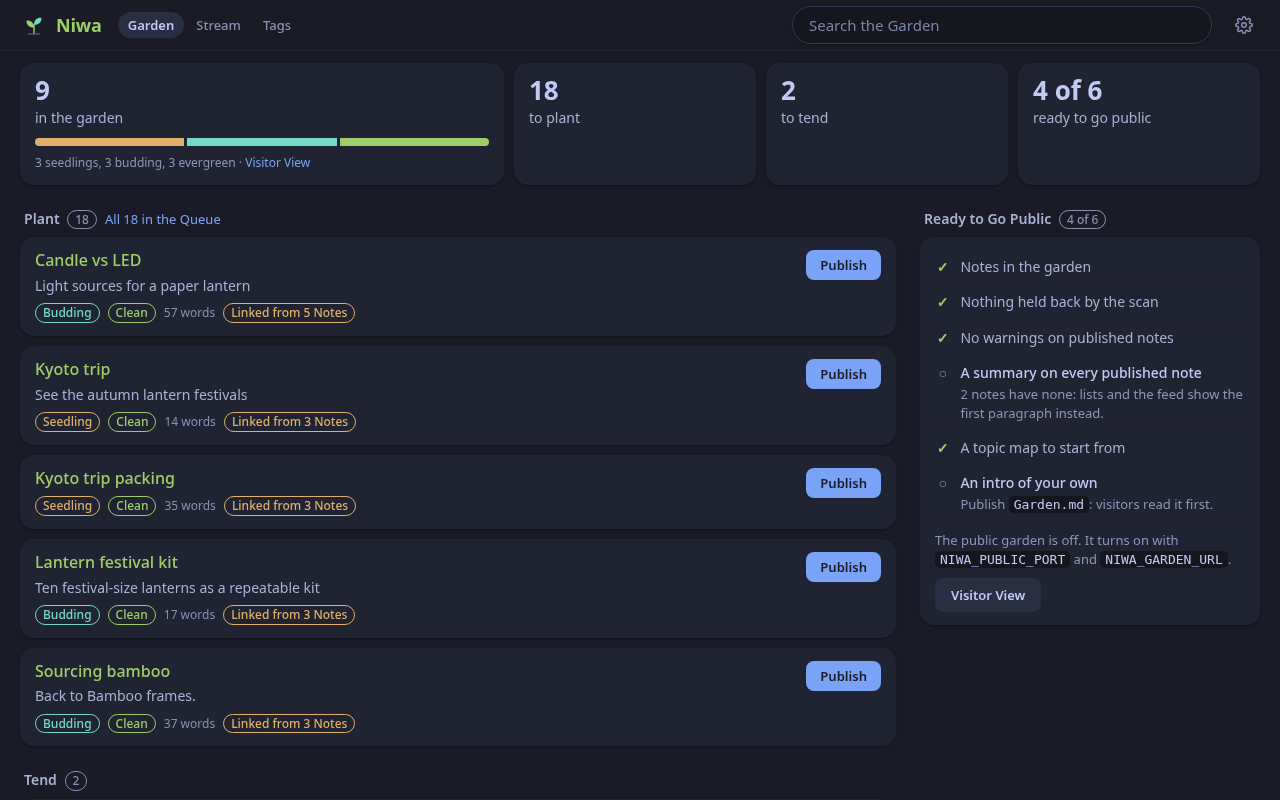
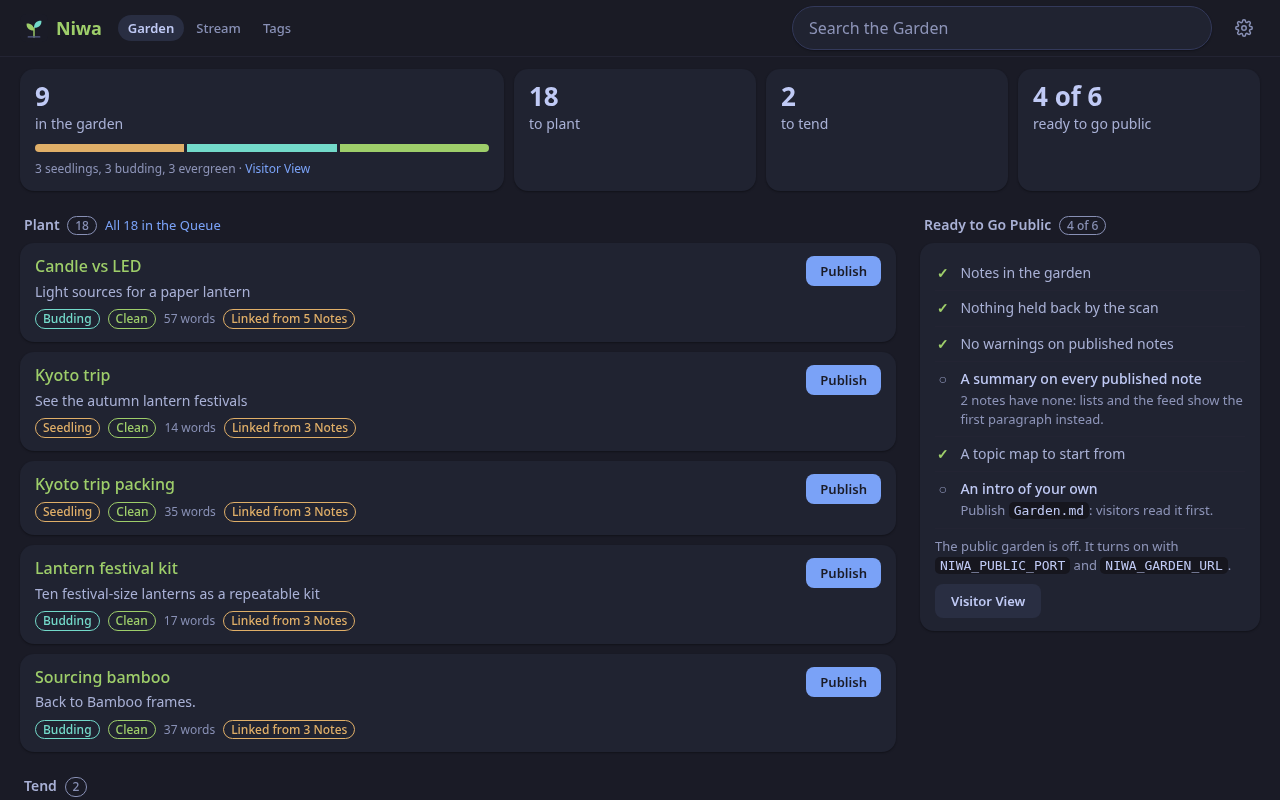
niwa 0.18.0: vaultkit 0.35.1: annai's search field; the first phone tab is Niwa itself, on the public garden too

diff --git a/app/vaultkit/ui/machiya.css b/app/vaultkit/ui/machiya.css
@@ -428,7 +428,7 @@ body.room-kura    { --room: var(--orange);  --room2: var(--slate);  --room-panel
    its <accent>-panel shade (vaultkit/palettes.py: the same hue, lightness moved only where it falls short), so links,
    chips and room colours in a panel need nothing of their own. A room's own colour defined on <body> from an accent
    keeps the page's shade; set it on the element instead (docs/ui.md). */
-.card, .settings .group, .signin .group, .rooms .menu, .update-toast, .nbody pre, .tinted {
+.card, .settings .group, .signin .group, .rooms .menu, .tabsheet .menu, .update-toast, .nbody pre, .tinted {
   --blue: var(--blue-panel); --orange: var(--orange-panel); --red: var(--red-panel); --yellow: var(--yellow-panel);
   --green: var(--green-panel); --teal: var(--teal-panel); --magenta: var(--magenta-panel); --cyan: var(--cyan-panel);
   --slate: var(--slate-panel); --house: var(--blue-panel); --room: var(--room-panel); --room2: var(--room2-panel); }
@@ -488,21 +488,21 @@ header.top {
   border-radius: 8px; color: var(--muted); }
 .rooms > summary::-webkit-details-marker { display: none; }
 .rooms > summary:hover, .rooms[open] > summary { background: var(--hl); color: var(--fg); }
-.rooms .menu { position: absolute; right: 0; top: calc(100% + 6px); min-width: 230px; padding: var(--sp-2);
+.rooms .menu, .tabsheet .menu { position: absolute; right: 0; top: calc(100% + 6px); min-width: 230px; padding: var(--sp-2);
   background: var(--dark); border: 1px solid var(--line2); border-radius: var(--r-m); box-shadow: var(--shadow-2); z-index: 20; }
-.rooms .menu a, .rooms .menu b { display: flex; align-items: center; gap: 10px; padding: 7px var(--sp-2); border-radius: 8px;
+.rooms .menu a, .tabsheet .menu a, .rooms .menu b, .tabsheet .menu b { display: flex; align-items: center; gap: 10px; padding: 7px var(--sp-2); border-radius: 8px;
   color: var(--menu-fg, var(--fg)); font-size: var(--fs-s); font-weight: 500; }
-.rooms .menu a:hover { background: var(--hl); text-decoration: none; }
-.rooms .menu b { background: var(--hl); }
-.rooms .menu small { color: var(--menu-muted, var(--muted)); font-weight: 400; margin-left: auto; }
-.rooms .menu hr { border: 0; border-top: 1px solid var(--line); margin: 6px 4px; }
-.rooms .menu .seal { width: 22px; height: 22px; font-size: 13px; }
-.rooms .menu .neighbour { display: inline-grid; place-items: center; width: 22px; height: 22px; color: var(--muted); }
+.rooms .menu a:hover, .tabsheet .menu a:hover { background: var(--hl); text-decoration: none; }
+.rooms .menu b, .tabsheet .menu b { background: var(--hl); }
+.rooms .menu small, .tabsheet .menu small { color: var(--menu-muted, var(--muted)); font-weight: 400; margin-left: auto; }
+.rooms .menu hr, .tabsheet .menu hr { border: 0; border-top: 1px solid var(--line); margin: 6px 4px; }
+.rooms .menu .seal, .tabsheet .menu .seal { width: 22px; height: 22px; font-size: 13px; }
+.rooms .menu .neighbour, .tabsheet .menu .neighbour { display: inline-grid; place-items: center; width: 22px; height: 22px; color: var(--muted); }
 /* A room's own icon (its home-screen icon) instead of the kanji square: the header mark and the Rooms menu. */
 .seal.icon { background: center / cover no-repeat transparent; border-radius: 0; color: transparent; overflow: hidden; }
 .brand .seal.icon { width: 28px; height: 28px; }
-.rooms .menu .seal.icon { width: 24px; height: 24px; }
-.rooms .menu .seal.icon.neighbour-icon { background-size: 20px 20px; background-position: center; }   /* Hister's and SearXNG's own logos: no tile, a little smaller */
+.rooms .menu .seal.icon, .tabsheet .menu .seal.icon { width: 24px; height: 24px; }
+.rooms .menu .seal.icon.neighbour-icon, .tabsheet .menu .seal.icon.neighbour-icon { background-size: 20px 20px; background-position: center; }   /* Hister's and SearXNG's own logos: no tile, a little smaller */
 /* ROOM ICONS (generated by icons/build-css.py from icons/*.svg; don't edit by hand) */
[2 lines of base64/hex data omitted]
@@ -533,8 +533,6 @@ header.top {
   .tools > * { order: 1; }
   header.top > .searchrow { order: 2; flex: 0 .2 auto; width: clamp(180px, 75vw - 540px, 420px); min-width: 150px;
     margin: 0; padding: 6px 0; }
-  /* the field's text is 15px (v0.31.4, owner 2026-10-11; v0.31.3's 13px, the tabs' size, read too small); phones keep 16px */
-  header.top > .searchrow form.search.searchbar input { font-size: 15px; }
   .tools > :is(.rooms, .who, .gear) { order: 3; }
   /* the tools' own 10px gap, inside the header's 16px one */
   .tools > :not(.rooms, .who, .gear) + :not(.rooms, .who, .gear), .tools > :is(.rooms, .who, .gear) + :is(.who, .gear) {
@@ -561,11 +559,15 @@ body.theme-day .tabbar { --tab-bg: var(--hl); --tab-on: var(--dark); }
     background: color-mix(in srgb, var(--tab-bg) 70%, transparent);
     backdrop-filter: blur(20px) saturate(180%); -webkit-backdrop-filter: blur(20px) saturate(180%);
     box-shadow: 0 8px 24px rgb(0 0 0 / 0.25); }
-  .tabbar > a, .tabbar > details > summary { flex: 1 1 0; min-width: 0; display: flex; flex-direction: column; align-items: center;
+  .tabbar > a, .tabbar > button, .tabbar > details > summary { flex: 1 1 0; min-width: 0; display: flex; flex-direction: column; align-items: center;
     gap: 2px; padding: 6px 2px; border-radius: 999px; color: var(--fg); font-size: 11px; font-weight: 500; white-space: nowrap;
     list-style: none; cursor: pointer; }
-  .tabbar > a > span, .tabbar > details > summary > span { max-width: 100%; overflow: hidden; text-overflow: ellipsis; }
+  .tabbar > button { font-family: inherit; line-height: inherit; background: none; border: 0; margin: 0; }
+  .tabbar > a > span, .tabbar > button > span, .tabbar > details > summary > span { max-width: 100%; overflow: hidden; text-overflow: ellipsis; }
   .tabbar svg { width: 22px; height: 22px; }
+  /* the first tab is the app (v0.35, owner 2026-10-14): its icon, the size of the others' glyphs */
+  .tabbar .seal.icon { width: 22px; height: 22px; }
+  .tabbar > a > .seal.icon, .tabbar > a.here > .seal.icon { flex: none; max-width: none; color: transparent; }   /* the icon, never its kanji */
   .tabbar > details { flex: 1 1 0; min-width: 0; position: relative; display: flex; }
   .tabbar > details > summary::-webkit-details-marker { display: none; }
   /* the Rooms tab is also a .rooms: undo the header button's 32px box and hover fill */
@@ -581,7 +583,7 @@ body.theme-day .tabbar { --tab-bg: var(--hl); --tab-on: var(--dark); }
   .tabbar:has(> details[open]) > a:is(.here, [aria-current="page"]) { background: none; color: var(--fg); }
   .tabbar:has(> details[open]) > a:is(.here, [aria-current="page"]) > span { color: inherit; }
   .tabbar > a:hover { text-decoration: none; }
-  .tabbar .rooms .menu { top: auto; bottom: calc(100% + 14px); right: 0; }
+  .tabbar > details > .menu { top: auto; bottom: calc(100% + 14px); right: 0; }   /* Rooms, and a room's own sheet tab (v0.35) */
 }
 
 /* The installed app's header. v0.33.0 (owner, 2026-10-14, after comparing with an installed Shiori that still had it:
@@ -823,12 +825,14 @@ main form.search input { width: 100%; font-size: var(--fs-l); padding: 9px 12px;
 .searchrow { padding: 2px 0 10px; }
 form.search.searchbar { display: block; max-width: 720px; }
 form.search.searchbar .field { position: relative; }
-/* 38px tall at every width, Shiori Search's field as Safari draws it (v0.31.4, owner 2026-10-11; v0.31.3's 44.4px came from
-   Shiori's CSS, but Safari draws that one at 38): a fixed height, so no font or line-height can change it */
-form.search.searchbar input { width: 100%; max-width: none; height: 38px; padding: 0 44px 0 16px; border-radius: 999px;
-  border: 1px solid var(--line2); background: var(--dark); color: var(--menu-fg, var(--fg)); font: inherit; font-size: var(--fs-l);
+/* annai's field (v0.35, owner 2026-10-14: "the same search field style as annai", for one look across the apps): 44px
+   tall at every width, 16px text (which also keeps iOS from zooming on focus), on --card, a raised surface a little
+   lighter than the page, with --line2 and --shadow-1. A fixed height, so no font or line-height can change it. The text
+   and placeholder are the colours the palettes test on a card. (v0.31.4's was 38px on --dark.) */
+form.search.searchbar input { width: 100%; max-width: none; height: 44px; padding: 0 44px 0 16px; border-radius: 999px;
+  border: 1px solid var(--line2); background: var(--card); color: var(--menu-fg, var(--fg)); font: inherit; font-size: 16px;
   line-height: normal; box-shadow: var(--shadow-1); transition: none; }
-form.search.searchbar input::placeholder { color: var(--muted); opacity: .9; }
+form.search.searchbar input::placeholder { color: var(--menu-muted, var(--muted)); opacity: 1; }
 form.search.searchbar input:focus { outline: none; border-color: var(--room); }
 /* focused, one solid 2px ring on the field's edge, as Shiori Search's (v0.31.3, owner 2026-10-11; was the border plus a ring
    2px outside it) */

diff --git a/tests/test_niwa.py b/tests/test_niwa.py
@@ -2989,6 +2989,17 @@ class PublicGardenTest(unittest.TestCase):
         for path in ("/visit", "/queue"):
             self.assertEqual(self.get(path)[0], 404, path)
 
+    def test_the_first_phone_tab_is_niwa_itself_on_both_listeners(self):
+        """vaultkit 0.35: the tab bar's first tab is the app, its icon and name, to its home; public_tabbar does the same."""
+        mark = '<span class="seal icon" data-room="niwa"'
+        for who, body in (("owner", req("/stream")[1]), ("public", self.get("/stream")[2])):
+            tabbar = body[body.index('<nav class="tabbar"'):]
+            tabbar = tabbar[:tabbar.index("</nav>")]
+            self.assertEqual(re.findall(r"<span>([^<]*)</span></a>", tabbar)[:3], ["Niwa", "Stream", "Tags"], who)
+            self.assertTrue(re.search(r'<a href="/">%s' % re.escape(mark), tabbar), who)
+            self.assertIn('<a href="/stream" class="here" aria-current="page">', tabbar, who)
+        self.assertNotIn("Rooms", tabbar)                                             # the public garden has no Rooms tab
+
     def test_the_public_listener_logs_no_query(self):
         err = io.StringIO()
         with mock.patch.object(sys, "stderr", err):
@@ -3065,8 +3076,8 @@ class PublicGardenTest(unittest.TestCase):
         self.assertIn("width: clamp(180px, 75vw - 540px, 420px); min-width: 150px;", shared_css)     # the pill, v0.31.2
         self.assertIn("form.search.searchbar input:focus-visible { outline: 2px solid var(--room); outline-offset: -2px; }",
                       shared_css)                                                        # one ring on the edge, v0.31.3
-        self.assertIn("header.top > .searchrow form.search.searchbar input { font-size: 15px; }", shared_css)    # v0.31.4
-        self.assertIn("form.search.searchbar input { width: 100%; max-width: none; height: 38px;", shared_css)   # a fixed 38px
+        self.assertIn("form.search.searchbar input { width: 100%; max-width: none; height: 44px;", shared_css)   # annai's, v0.35
+        self.assertIn("background: var(--card); color: var(--menu-fg, var(--fg)); font: inherit; font-size: 16px;", shared_css)
         with open(os.path.join(os.path.dirname(__file__), "..", "app", "vaultkit", "ui", "machiya.js")) as f:
             self.assertIn('foot.style.marginTop = parseFloat(getComputedStyle(foot).marginTop) + gap + "px"', f.read())   # v0.31.3
         with open(os.path.join(os.path.dirname(__file__), "..", "app", "static", "niwa.css")) as f:

diff --git a/app/vaultkit/shell.py b/app/vaultkit/shell.py
@@ -351,12 +351,25 @@ def header(room, nav, current, links, subtitle="", tools="", settings=True, who=
                ('<div class="below">%s</div>' % below) if below else ""))
 
 
-def tabbar(tabs, current, room, links, icons=None, who=""):
-    """Phones: the room's own tabs (at most four: [(href, key, label)]) plus a Rooms tab when there are rooms."""
+def tabbar(tabs, current, room, links, icons=None, who="", brand=True):
+    """Phones: the room's own tabs (at most four) plus a Rooms tab when there are rooms. A tab is (href, key, label), or
+    the room's own HTML for a tab that isn't a link (v0.35: a <button> that opens something, or a
+    <details data-menu><summary>…</summary><nav class="menu">…</nav></details> sheet), drawn like the others.
+    brand (v0.35, owner 2026-10-14): the first tab is the app itself, its icon and name, to its home page; give the
+    room's home as the first tab and its icon and label are replaced."""
     icons = icons or {}
-    out = ['<a href="%s"%s>%s<span>%s</span></a>' % (e(href), ' class="here" aria-current="page"' if key == current else "",
-                                                     icons.get(key, GLYPH.get(key, "")), e(label))
-           for href, key, label in tabs[:4]]
+    _, name, _, _ = room_info(room)
+    out = []
+    for i, tab in enumerate(tabs[:4]):
+        if isinstance(tab, str):
+            out.append(tab)
+            continue
+        href, key, label = tab
+        icon = icons.get(key, GLYPH.get(key, ""))
+        if brand and i == 0:
+            icon, label = mark(room), name
+        out.append('<a href="%s"%s>%s<span>%s</span></a>' % (e(href), ' class="here" aria-current="page"' if key == current else "",
+                                                            icon, e(label)))
     menu = switcher(room, links, cls="rooms", settings=True, who=who)
     if menu:
         out.append(menu.replace('<summary title="Rooms" aria-label="Rooms">%s</summary>' % GLYPH["rooms"],

diff --git a/app/shell.py b/app/shell.py
@@ -150,10 +150,13 @@ def footer(with_status=True, is_public=False):
 
 
 def public_tabbar(current):
-    """The phone's tab bar for the public garden: its three tabs, no Rooms menu and no Settings row."""
+    """The phone's tab bar for the public garden: its three tabs, no Rooms menu and no Settings row. The first tab is
+    Niwa itself, its icon and name, as house.tabbar draws it (vaultkit 0.35)."""
+    first = [(PUBLIC_NAV[0][0], PUBLIC_NAV[0][1], house.room_info(ROOM)[1], house.mark(ROOM))]
     return '<nav class="tabbar" aria-label="Sections">%s</nav>' % "".join(
         '<a href="%s"%s>%s<span>%s</span></a>' % (href, ' class="here" aria-current="page"' if key == current else "",
-                                                  ICON.get(key, ""), e(label)) for href, key, label in PUBLIC_NAV)
+                                                  icon, e(label))
+        for href, key, label, icon in first + [(h, k, l, ICON.get(k, "")) for h, k, l in PUBLIC_NAV[1:]])
 
 
 PUBLIC_META = '<meta name="niwa-public" content="1">\n'     # niwa.js: no service worker, no install hint

diff --git a/app/vaultkit/__init__.py b/app/vaultkit/__init__.py
@@ -13,4 +13,4 @@ from .vault import CALLOUT_RE, EMBED_RE, HIDDEN, IMAGE_EXT, MDIMG_RE, Vault     
 from .frontmatter import EditError, edit_front, merge_note, version_of, yaml_scalar   # noqa: F401
 from .gitsync import GitSync                                                          # noqa: F401
 
-__version__ = "0.34.1"
+__version__ = "0.35.1"

diff --git a/app/niwa.py b/app/niwa.py
@@ -52,7 +52,7 @@ from vaultkit import read_secret  # noqa: E402
 from vaultkit import signin  # noqa: E402
 from writer import Writer, WriteError  # noqa: E402
 
-VERSION = "0.17.5"
+VERSION = "0.18.0"
 PORT = int(os.environ.get("NIWA_PORT", "8080"))
 USERS = set(filter(None, (u.strip() for u in os.environ.get("NIWA_USERS", "").split(","))))
 

diff --git a/app/CHANGELOG.md b/app/CHANGELOG.md
@@ -3,6 +3,15 @@
 Niwa follows [SemVer](https://semver.org). Before 1.0, a new feature, a changed default or setting, or a changed API
 field is a minor bump, and a fix or wording change is a patch. Settings are listed in the README.
 
+## 0.18.0
+
+vaultkit 0.35.1 (owner decisions 2026-10-14: one search field and tab bar across the apps).
+
+- **The search field is the same in every app:** 44px tall, 16px text, on the card color, at every width.
+- **On phones the first tab is Niwa itself**, its icon and name, to the garden's home: the tabs read Niwa, Stream, Tags and Rooms. The public garden's tab bar does the same (Niwa, Stream, Tags). The desktop header is unchanged.
+- In the installed iPhone app, the back button on inner pages sits beside the search box (vaultkit 0.34.1); Niwa's own rule for it from 0.17.5 is gone.
+- The README screenshots are retaken.
+
 ## 0.17.5
 
 vaultkit 0.34.0 (owner decision 2026-10-14).
